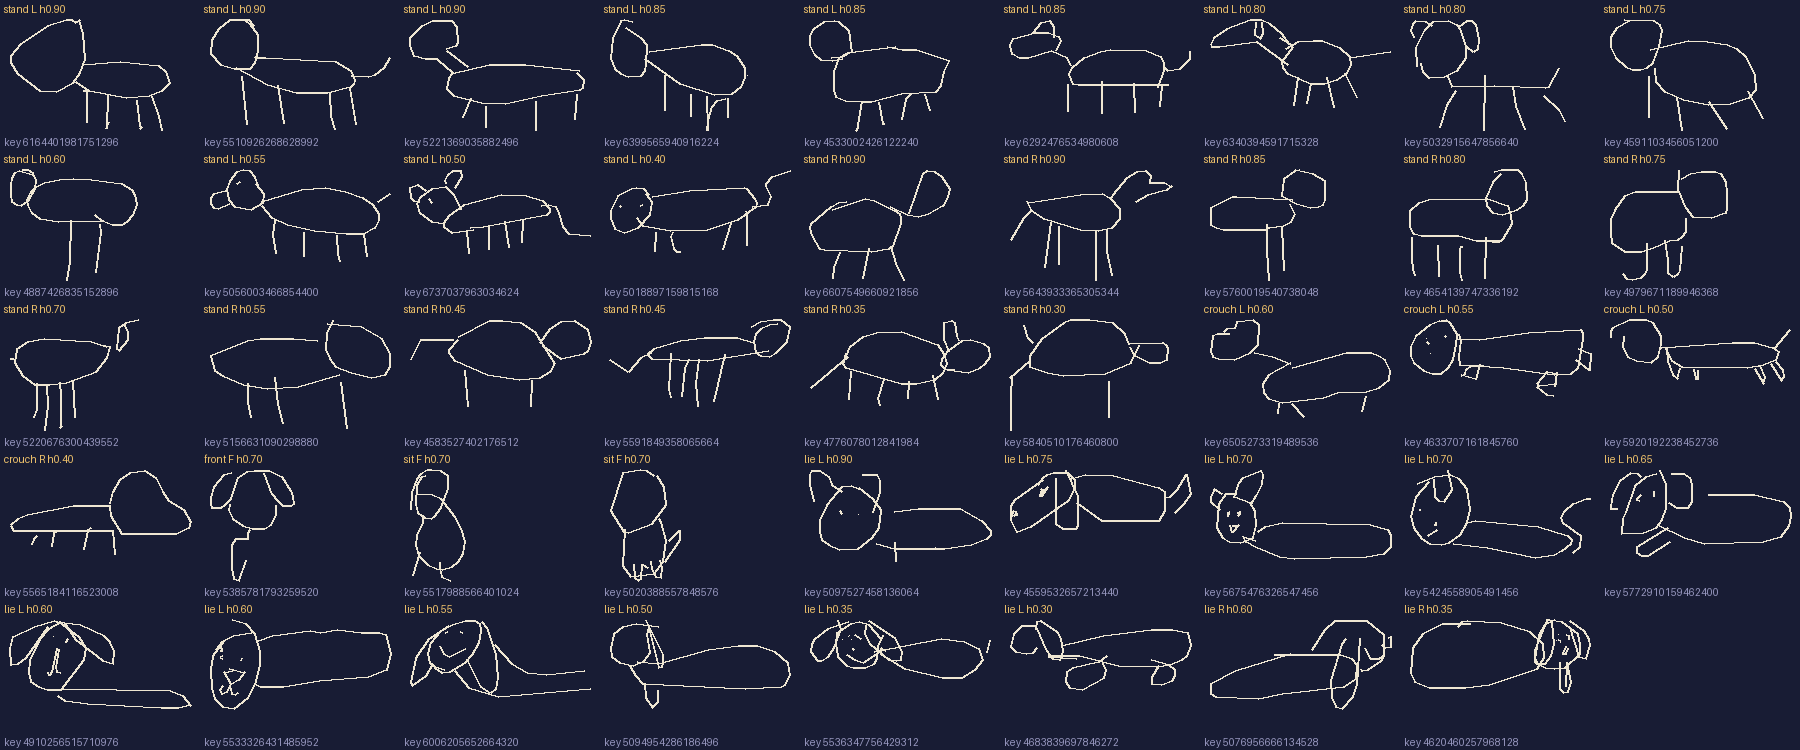
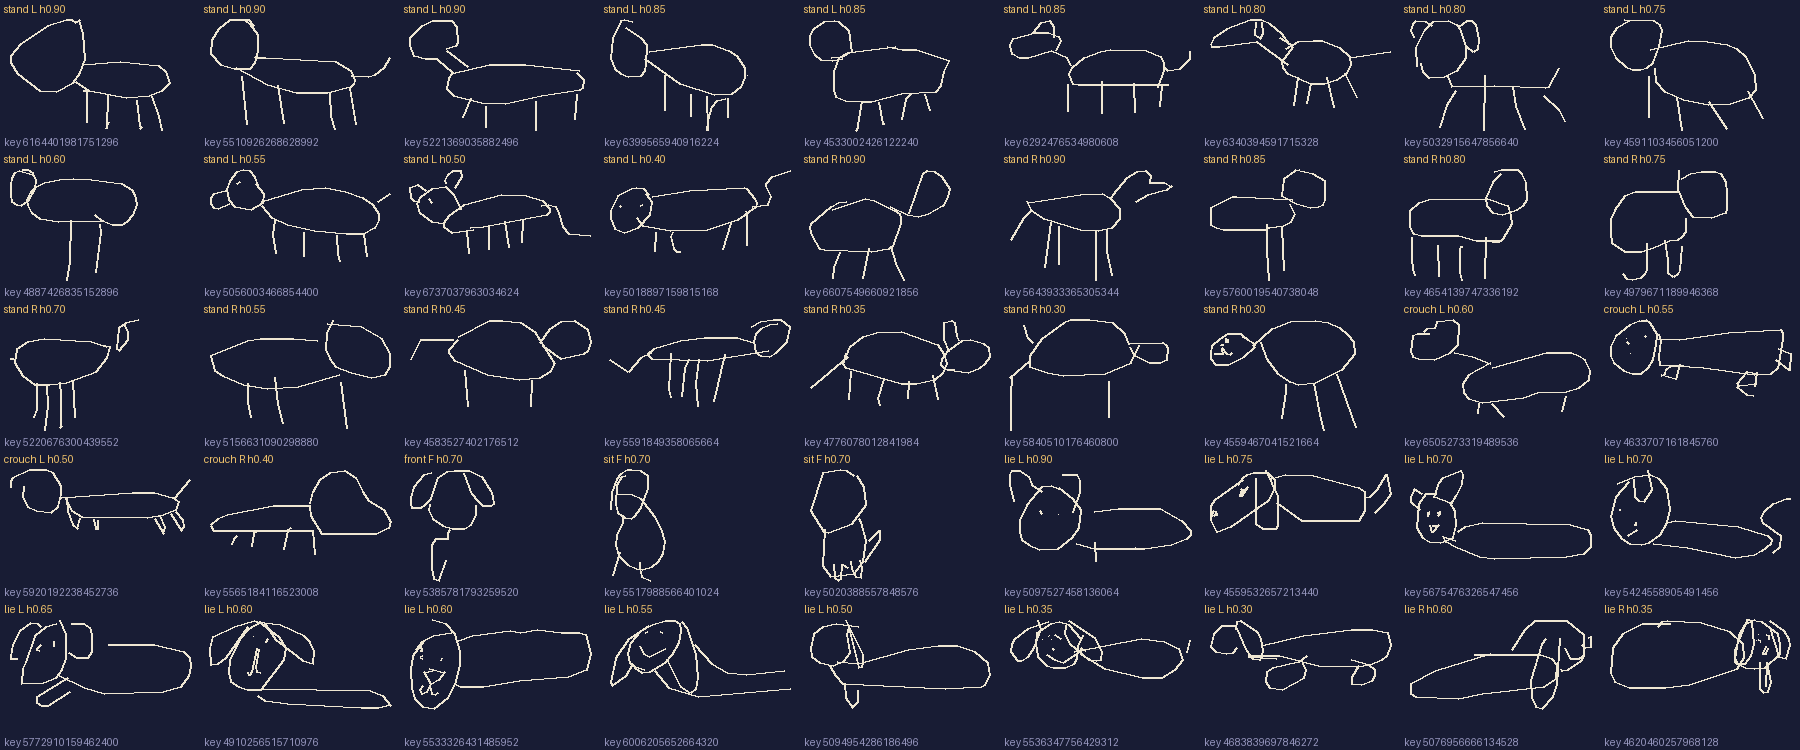
PAE-02: swarm work in progress (checkpoint)
Claude-Session: https://claude.ai/code/session_01NnogCfjFXeRgpEGgKH3eVT

diff --git a/paeleo/handmade/38-drawing-library/build/02_library.py b/paeleo/handmade/38-drawing-library/build/02_library.py
@@ -69,13 +69,14 @@ LABELS = {
     # tell which end was the head during the refusal) were dropped from the library
     3476: ('R', 'lie', .35, 0, 0, .5, 'lying, head right and down, ear hanging'),
     # round 2 additions (critic repairs 1, 3, 4), found in sheets/r2-headlow-*, r2-short-*
-    135:  ('R', 'stand', .30, .7, 0, 0, 'dome body, round-box head low at the chest, legs apart: the stride twin of 2830'),
+    135:  ('R', 'stand', .30, .7, 0, 0, 'dome body, round-box head low at the chest, legs apart: the stride twin of 1309'),
+    1309: ('R', 'stand', .30, .8, 0, 0, 'dome body, small round head low at the chest, legs splayed: the stride twin of 135 (found by 10_twin_search.py)'),
     3537: ('L', 'lie', .75, 0, 0, 0, 'lying, box head in profile, snout and eye pointing left'),
     3107: ('R', 'lie', .60, 0, 0, 0, 'lying, floppy head right'),
 }
 
 # round 2 labels: head top below the back line (head-low), head in profile (snout pointing)
-HEADLOW = {2830, 135, 3269, 3005}
+HEADLOW = {135, 1309, 3269, 3005}  # 2830 measured level (head top 0.7 px under the back): not head-low
 PROFILE = {3537, 1111}
 
 # set doodles: (category, index in <category>.part, role)

diff --git a/paeleo/handmade/01-gilliam/build/render.py b/paeleo/handmade/01-gilliam/build/render.py
@@ -628,16 +628,21 @@ def scene_frame(i):
     kind, k = draw_head(fr, i, neck)
     hand_at = draw_low_hand(fr, j, sh_r)
     # dog
-    P = dog_pose(j)
+    P = dog_pose(j, i)
+    head_at = (sx(P['x']) - 90 * P['face'], PAW - 120)
+    bp, flying = butterfly_pos(i, hand_at, head_at)
+    look_at = None
+    if bp is not None and flying and 7.7 <= t < 11.8:
+        bj, _ = butterfly_pos(j, hand_at, head_at)   # attention also on twos
+        look_at = bj or bp
+        P['wag'] = max(P['wag'], 0.45)
     dog_shadow(fr, P)
     layer = Image.new('RGBA', (W, H), (0, 0, 0, 0))
     probe = Image.new('RGBA', (W, H), (0, 0, 0, 0))
-    draw_dog(layer, probe, P)
+    draw_dog(layer, probe, P, look_at)
     fr.alpha_composite(layer)
     draw_reach(fr, i, sh_r, sx(P['x']))
     # butterfly
-    head_at = (sx(P['x']) - 90 * P['face'], PAW - 120)
-    bp, flying = butterfly_pos(i, hand_at, head_at)
     if bp is not None:
         flap = abs(math.cos(2 * math.pi * 5 * t)) * 0.85 + 0.15 if flying else 1.0
         sc = 1.0

diff --git a/paeleo/handmade/38-drawing-library/build/03_decode.py b/paeleo/handmade/38-drawing-library/build/03_decode.py
@@ -119,7 +119,7 @@ def main():
 
     def attr(k):
         return np.array([c[k] for c in C], float)
-    WALKPAIR = {2830, 135}  # the stride twins: dome body, round head low at the chest
+    WALKPAIR = {135, 1309}  # the stride twins: dome body, small round head low at the chest
     for c in C:
         c['walkpair'] = float(c['idx'] in WALKPAIR)
     A = {k: attr(k) for k in ('face', 'lie', 'crouch', 'head', 'spread', 'viewer', 'rest', 'front', 'flip', 'headlow', 'profile', 'walkpair')}
